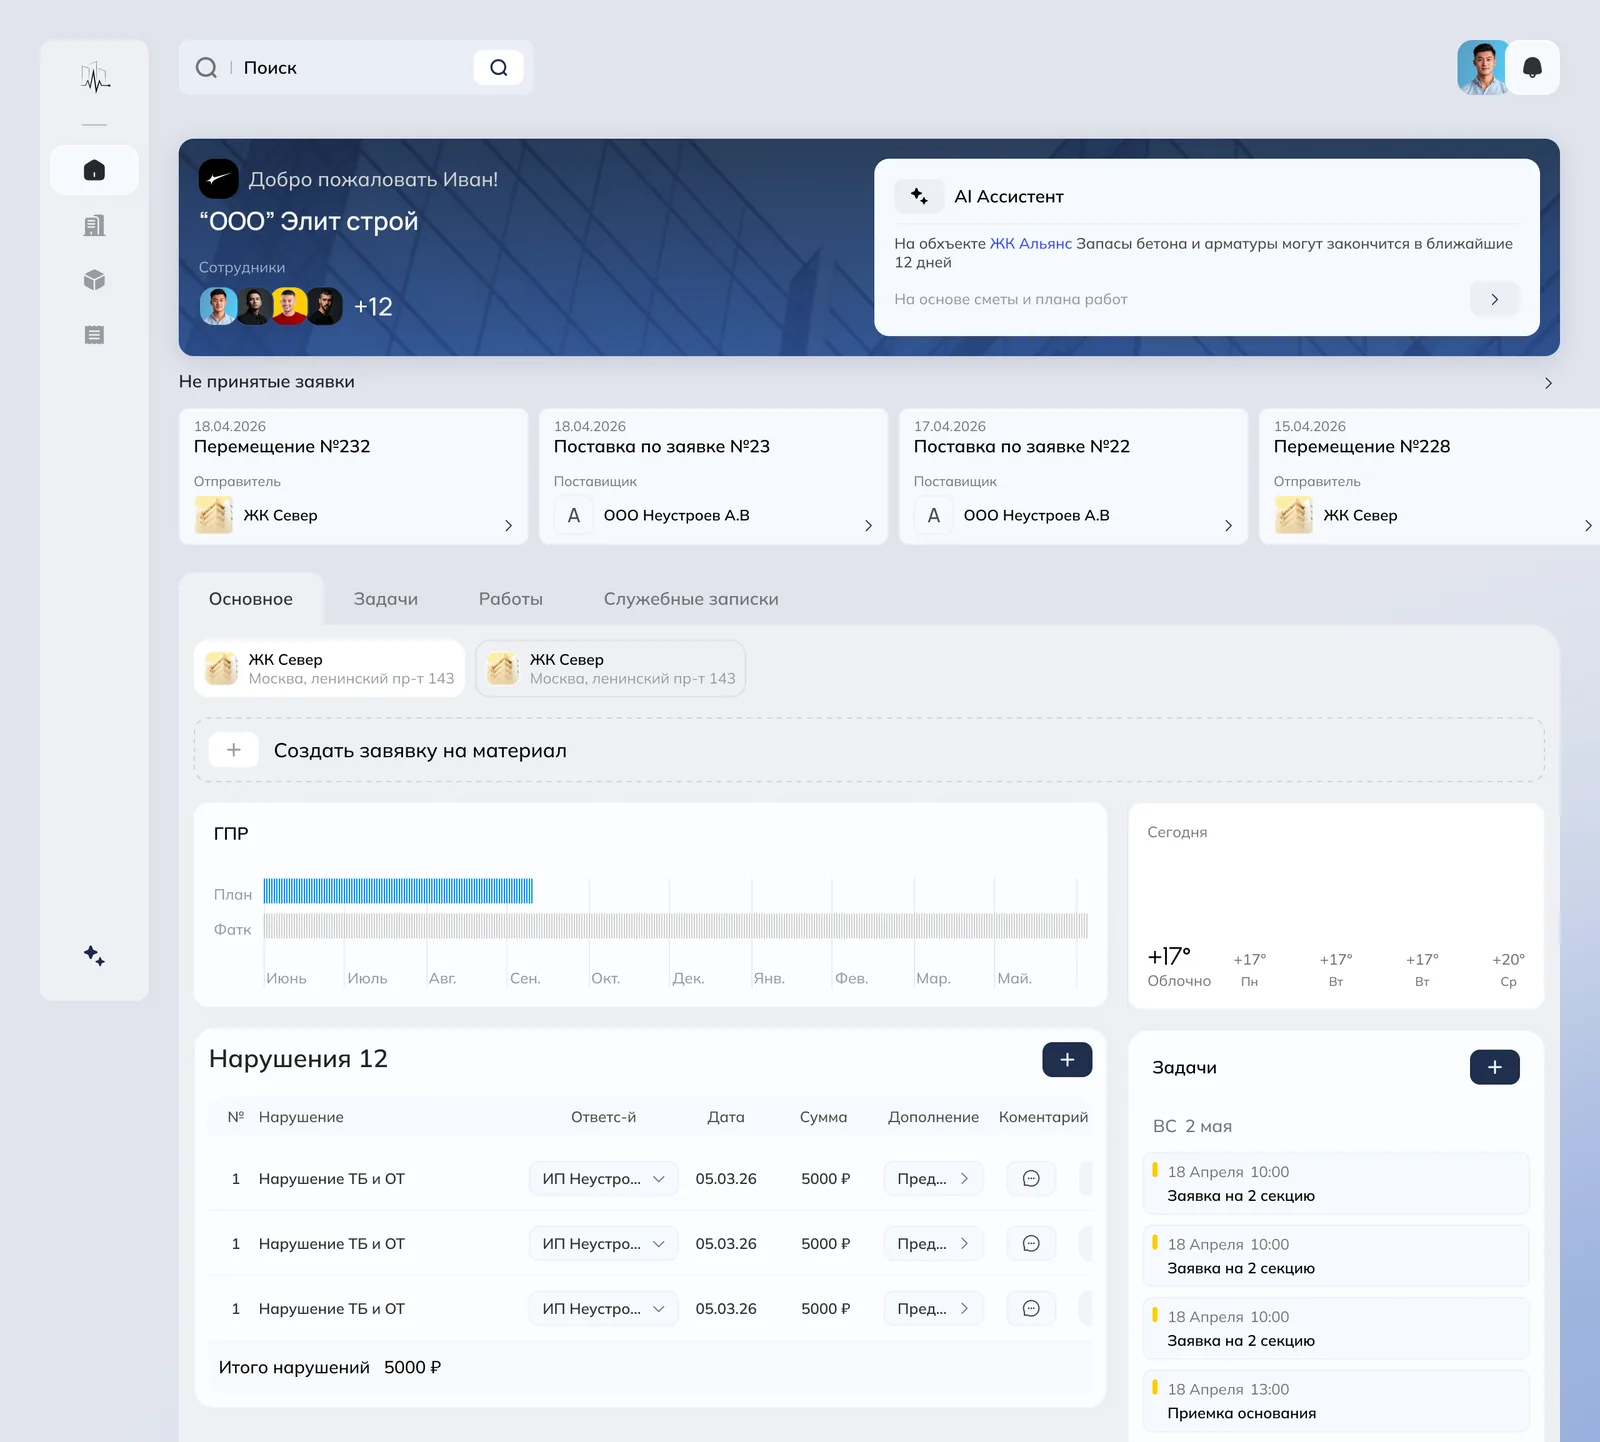
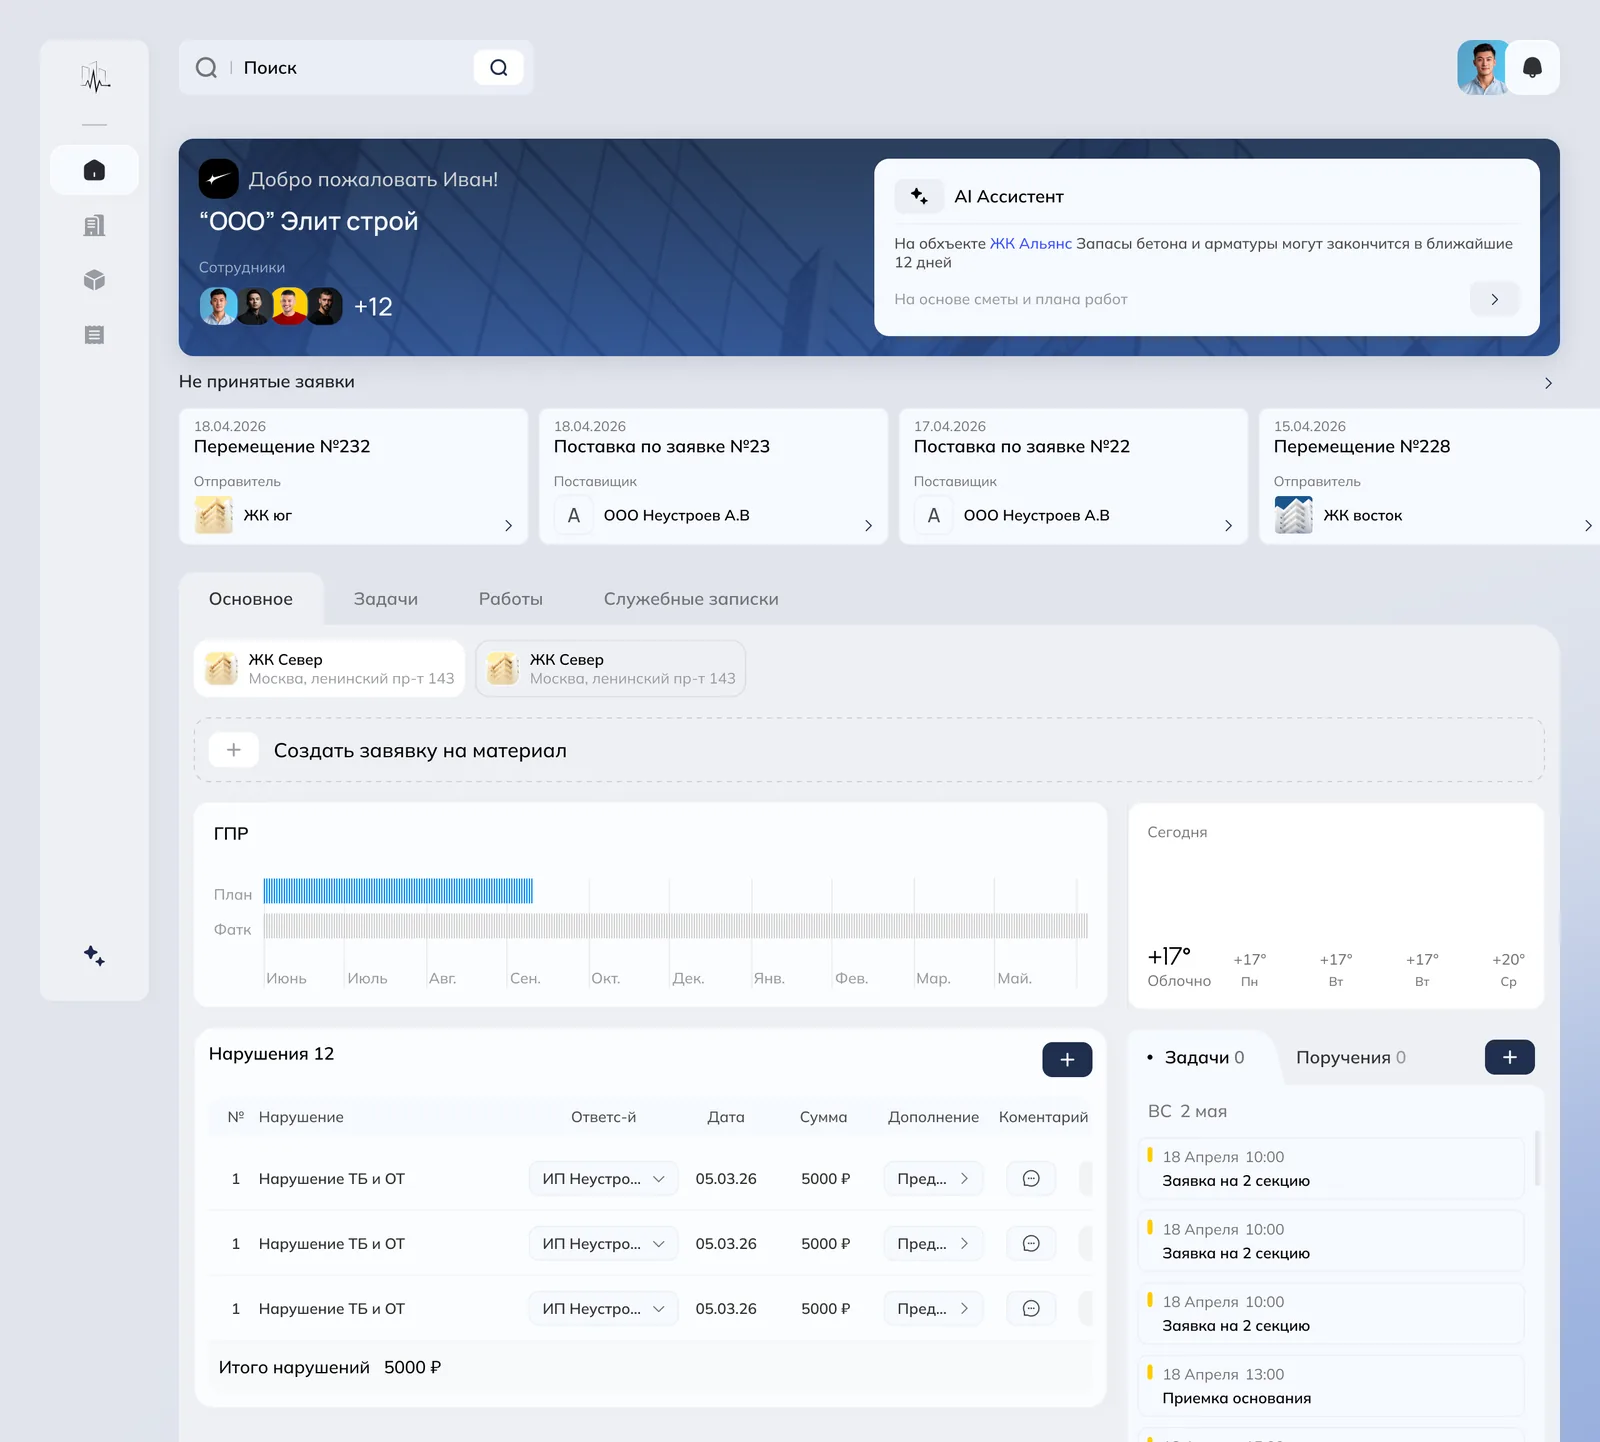
Добавил дашборд директора и обновил экран прораба
Было: у роли «Директор / Собственник» стояла заглушка — карточка объекта.
Стало: подставил актуальный дашборд директора (общая картина по объектам, выполнение, расходы, задолженности, AI-сводка).

Прораб: перекатал экран на свежую версию (заголовок «Поручения» вместо опечатки).

diff --git a/src/data/content.ts b/src/data/content.ts
@@ -196,8 +196,8 @@ export const content = {
           "AI-сводку по рискам и просрочкам",
         ],
         benefit: "Свобода от микроконтроля и уверенность, что объекты под контролем.",
-        img: "/figma/screen-yura-objekt.webp",
-        imgAlt: "Экран директора — карточка объекта с общей картиной",
+        img: "/figma/screen-role-director.webp",
+        imgAlt: "Экран директора — общая картина по объектам",
       },
       {
         id: "rp",
